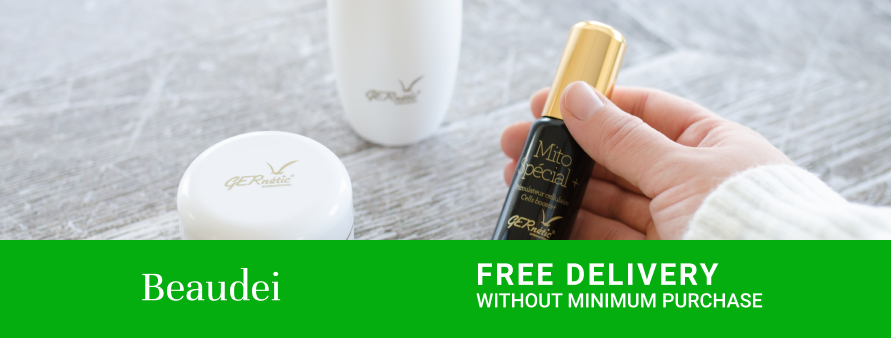
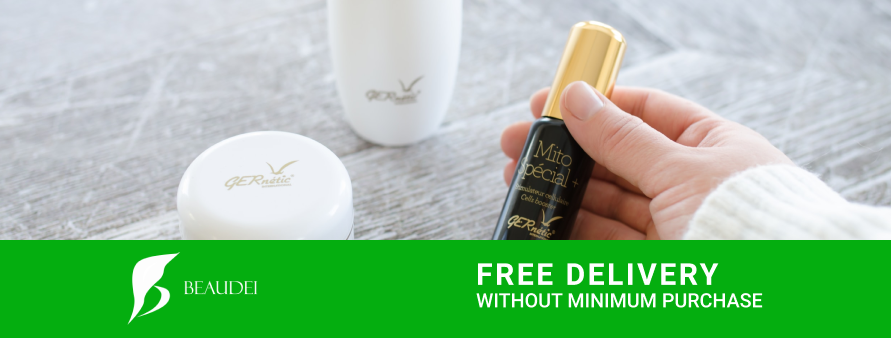
update promotion page, update promotion image

Changed region(s): [[0.1212, 0.7396, 0.3333, 0.9467]]

diff --git a/promotion.html b/promotion.html
@@ -35,7 +35,8 @@
             </li>
             <li class="right-nav register-nav"><a href="register.html">Register</a></li>
             <li class="right-nav mobile-hamburger dropdown">
-                <a href="javascript:void(0)" class="drop-btn" onclick="openMobileNav()"><img src="assets/icons/hamburger.svg"></a>
+                <a href="javascript:void(0)" class="drop-btn" onclick="openMobileNav()"><img
+                        src="assets/icons/hamburger.svg"></a>
                 <div class="mobile-nav-content">
                     <a href="index.html">Home</a>
                     <a href="promotion.html">Promotion</a>
@@ -51,6 +52,27 @@
 
         <div class="promotion-banner">
             <img src="assets/free-delivery-with-banner.png" alt="promotion banner">
+        </div>
+
+        <h2 class="promotion-title">
+            Free Delivery Promotion by Beaudei
+        </h2>
+
+        <div class="promotion-text">
+            <h3>
+                Terms and Conditions
+            </h3>
+            Terms and Conditions Free shipping is part of the Beaudei site Terms and Conditions. Free
+            shipping is subject to the site Terms and Conditions, Privacy Policy, and Terms and Conditions. The
+            provisions are written below. Users must read carefully because it can have an
+            impact to the rights and obligations of users legally.
+            <br><br>
+            By registering and using Beaudei site, the User is deemed to have read, understood,
+            understood and agreed to all the contents in the Terms and Conditions.
+            <h3>
+                Validity
+            </h3>
+            The promotion is valid for any purchase made from Beaudei site.
         </div>
 
     </main>

diff --git a/css/style.css b/css/style.css
@@ -393,6 +393,10 @@ main.register {
     .image-box {
         height: 300px;
     }
+    .promotion-title, .promotion-text {
+        padding-left: 20px;
+        padding-right: 20px;
+    }
 }
 
 form {
@@ -499,7 +503,7 @@ option {
     padding-bottom: 30px;
 }
 
-.tab-btn{
+.tab-btn {
     cursor: pointer;
     color: rgba(0, 0, 0, 0.54);
 }
@@ -597,4 +601,22 @@ option {
 .shop-item-card {
     box-shadow: 0px 2px 4px rgba(0, 0, 0, 0.25);
     min-height: 300px;
+}
+
+.free-delivery-banner-only,
+.free-delivery-banner-only > img {
+    width: 100%;
+}
+
+.promotion-title {
+    color: rgb(85, 85, 85);
+}
+
+.promotion-text > h3 {
+    color: rgb(97, 97, 97);
+}
+
+.promotion-text{
+    text-align: justify;
+    margin-bottom: 40px;
 }

diff --git a/make-up-shop.html b/make-up-shop.html
@@ -6,7 +6,7 @@
     <meta name="viewport" content="width=device-width, initial-scale=1.0">
     <link rel="stylesheet" type="text/css" href="css/style.css">
     <script src="js/jquery-3.5.1.min.js"></script>
-    <title>Skin Care - Beaudei</title>
+    <title>Make Up - Beaudei</title>
     <link rel="icon" type="image/png" sizes="32x32" href="assets/favicon/favicon-32x32.png">
     <link rel="icon" type="image/png" sizes="96x96" href="assets/favicon/favicon-96x96.png">
     <link rel="icon" type="image/png" sizes="16x16" href="assets/favicon/favicon-16x16.png">

diff --git a/register.html b/register.html
@@ -110,8 +110,12 @@
             </form>
         </div>
 
+        
     </main>
-
+    
+    <div class="free-delivery-banner-only">
+        <img src="assets/free-delivery-banner-only.png" alt="free delivery banner">
+    </div>
     <footer>
         <div>
             Copyright © 2020 Beaudei
